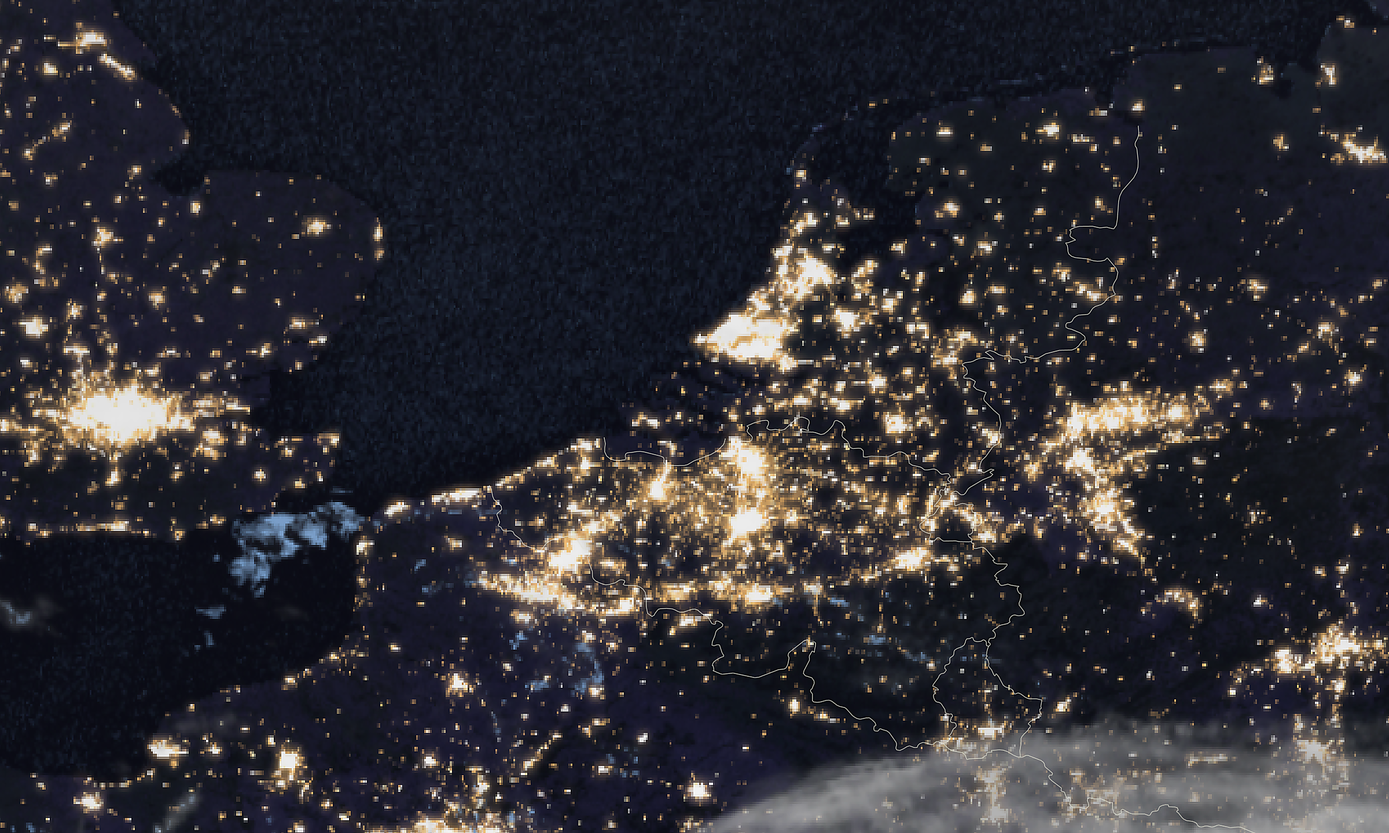
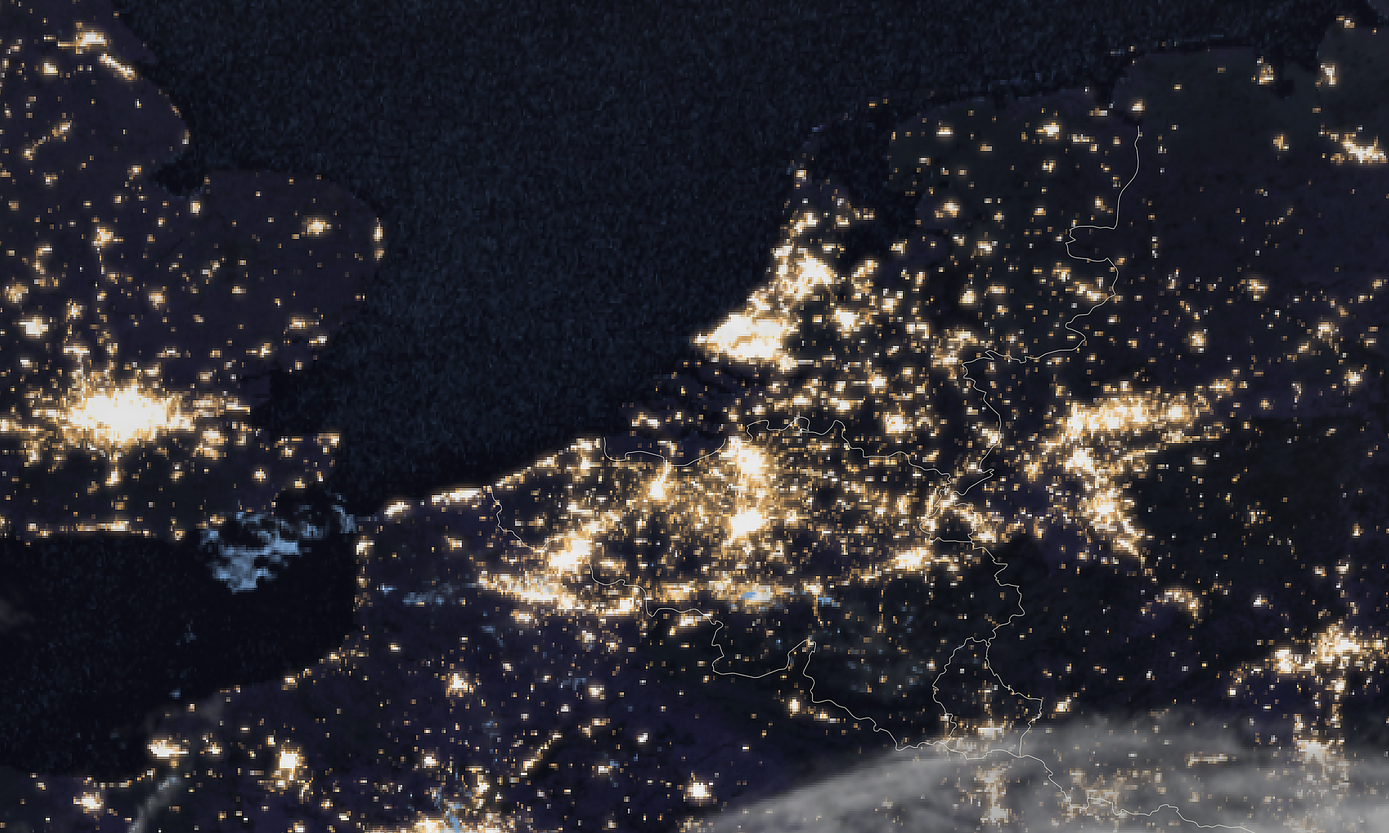
MTG Benelux satellietbeeld update 2026-04-28 23:00

diff --git a/mtg_benelux_meta.js b/mtg_benelux_meta.js
@@ -1,2 +1,2 @@
 const MTG_BENELUX_PRODUCT = "mtg_fd:rgb_geocolour";
-const MTG_BENELUX_TIJD = "2026-04-28T20:20:00Z";
+const MTG_BENELUX_TIJD = "2026-04-28T20:40:00Z";
